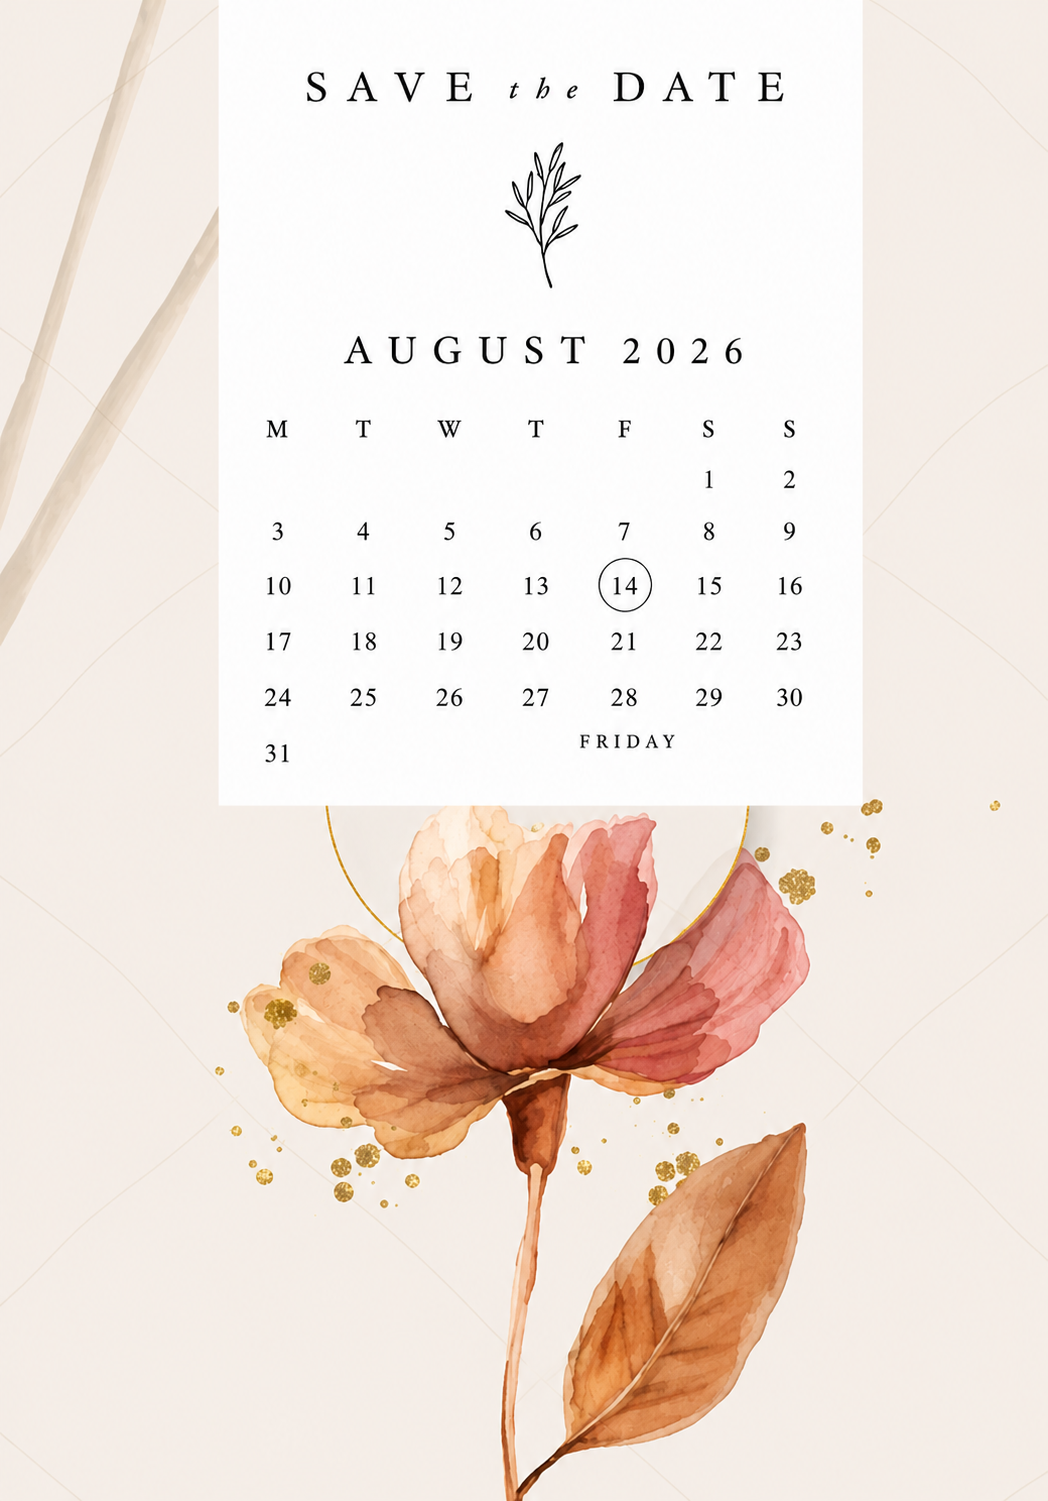
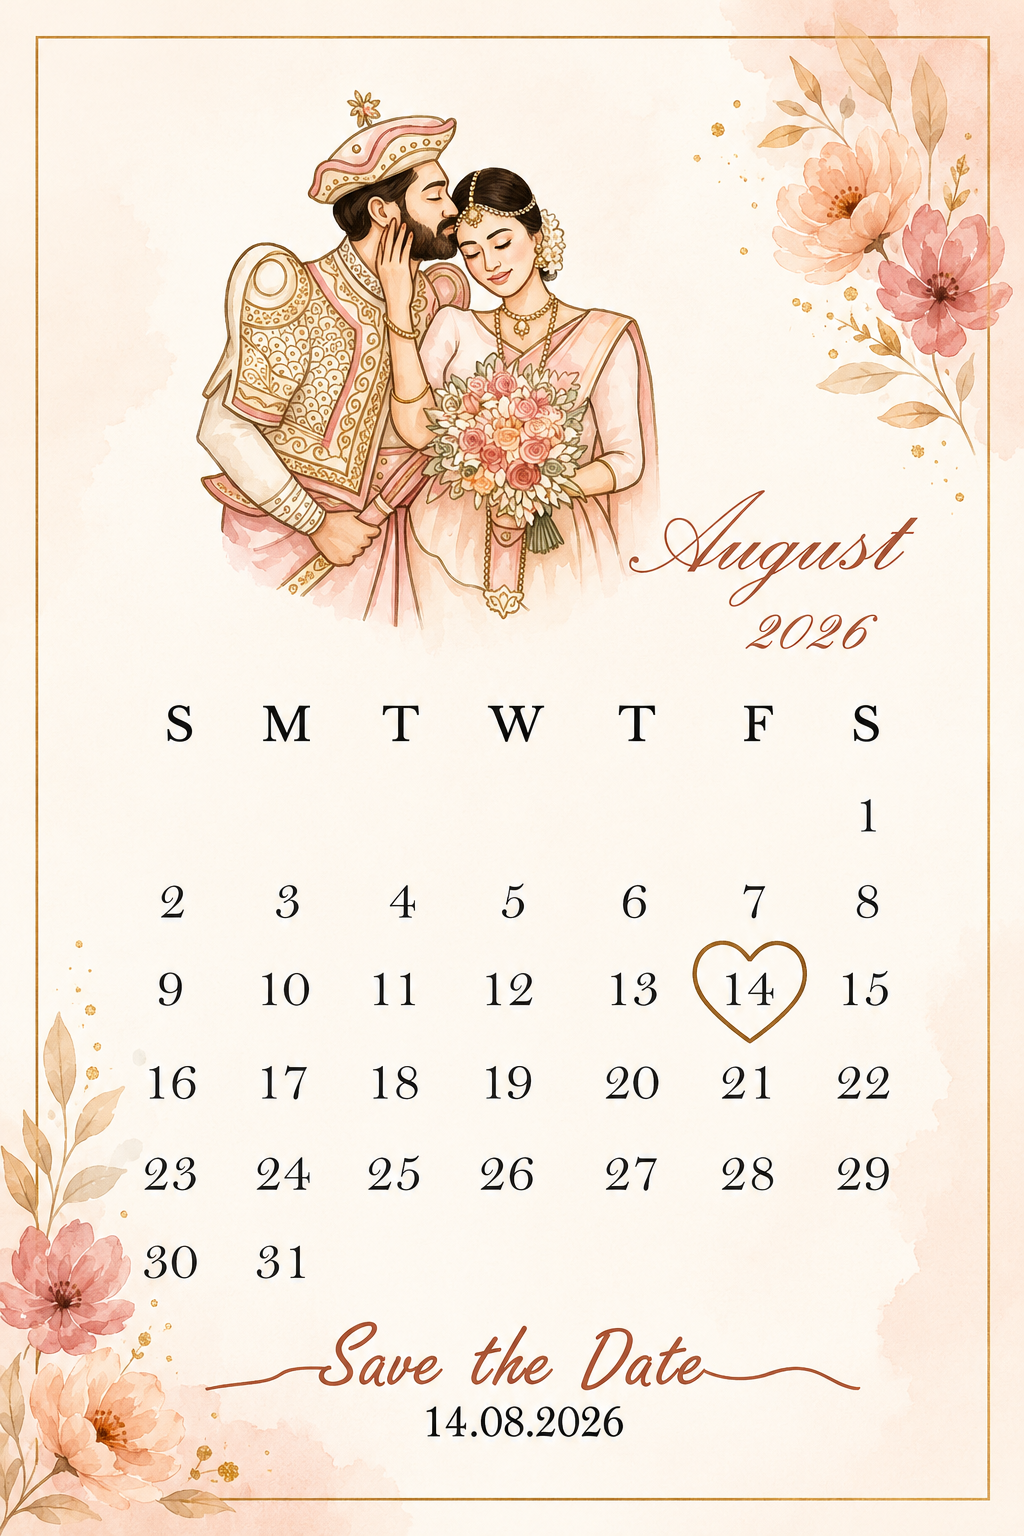
Add RSVP attendance field, close button, update couple names, update images

diff --git a/src/App.tsx b/src/App.tsx
@@ -26,6 +26,7 @@ export default function App() {
   const audioRef = useRef<HTMLAudioElement | null>(null);
 
   const weddingDate = new Date('2026-08-14T09:30:00');
+  const [isClosed, setIsClosed] = useState(false);
 
   const startMusic = () => {
     if (audioRef.current && !isMusicPlaying) {
@@ -44,6 +45,27 @@ export default function App() {
       setIsMusicPlaying(!isMusicPlaying);
     }
   };
+
+  if (isClosed) {
+    return (
+      <div className="relative min-h-screen bg-brand-ivory flex items-center justify-center p-6 text-center">
+        <FloatingPetals />
+        <div className="bg-white/60 backdrop-blur-md p-10 sm:p-20 rounded-[3rem] border border-brand-primary/20 shadow-2xl relative max-w-2xl">
+          <CornerFlowers position="all" opacity={0.6} scale={1.2} />
+          <h1 className="text-4xl sm:text-6xl font-display text-brand-dark mb-6 tracking-tight drop-shadow-sm">Thank You</h1>
+          <p className="font-serif italic text-lg sm:text-xl text-stone-600 mb-10 leading-relaxed">
+            For taking the time to view our invitation. We hope to see you on our special day!
+          </p>
+          <button 
+            onClick={() => setIsClosed(false)}
+            className="px-8 py-3 rounded-full border border-brand-primary/30 text-brand-primary font-sans text-xs tracking-[0.2em] uppercase hover:bg-brand-champagne transition-all duration-300 shadow-sm"
+          >
+            Open Again
+          </button>
+        </div>
+      </div>
+    );
+  }
 
   return (
     <div className="relative min-h-screen font-sans selection:bg-brand-gold selection:text-white overflow-x-hidden bg-brand-ivory">
@@ -76,11 +98,25 @@ export default function App() {
               {isMusicPlaying ? <Volume2 className="w-6 h-6" /> : <VolumeX className="w-6 h-6" />}
             </button>
 
+            {/* Close Invitation Button */}
+            <button
+              onClick={() => setIsClosed(true)}
+              className="fixed top-8 right-8 z-[60] bg-white/70 backdrop-blur-md px-6 py-2 rounded-full border border-brand-primary/30 text-brand-primary-deep font-sans text-[10px] sm:text-xs font-bold tracking-[0.2em] uppercase shadow-lg hover:bg-white hover:shadow-xl transition-all active:scale-95 flex items-center gap-2"
+            >
+              <div className="w-2 h-2 rounded-full bg-brand-pink/80" />
+              Close
+            </button>
+
 
 
             <HeroContent />
 
-            <WelcomeMessage />
+            <section id="couple" className="py-16 sm:py-32 bg-gradient-to-b from-brand-ivory via-brand-champagne to-[#F4F6F2] relative overflow-hidden">
+              <CornerFlowers position="top-right" opacity={0.6} scale={1.5} />
+              <CornerFlowers position="bottom-left" opacity={0.6} scale={1.5} />
+              <div className="absolute top-0 left-0 w-full h-full bg-[url('https://www.transparenttextures.com/patterns/cubes.png')] opacity-[0.03] pointer-events-none" />
+              <CoupleDetails />
+            </section>
             
             <SaveTheDate />
 
@@ -112,22 +148,9 @@ export default function App() {
               </div>
             </section>
 
-            <section id="couple" className="py-16 sm:py-32 bg-gradient-to-b from-brand-ivory via-brand-champagne to-[#F4F6F2] relative overflow-hidden">
-              <CornerFlowers position="top-right" opacity={0.6} scale={1.5} />
-              <CornerFlowers position="bottom-left" opacity={0.6} scale={1.5} />
-              <div className="absolute top-0 left-0 w-full h-full bg-[url('https://www.transparenttextures.com/patterns/cubes.png')] opacity-[0.03] pointer-events-none" />
-              <CoupleDetails />
-            </section>
-
-
-
             <section id="poruwa">
               <PoruwaEvent />
             </section>
-
-            {/* Timeline section removed entirely as requested */}
-
-
 
             <section id="addresses" className="py-16 sm:py-32 bg-gradient-to-b from-[#F4F6F2] via-brand-ivory to-brand-primary/10 relative">
               <AddressesSection />
@@ -138,6 +161,8 @@ export default function App() {
               <div className="absolute top-0 left-0 w-full h-full bg-[url('https://www.transparenttextures.com/patterns/natural-paper.png')] opacity-20 pointer-events-none" />
               <RSVPForm />
             </section>
+
+            <WelcomeMessage />
 
             <Footer />
           </motion.main>

diff --git a/src/components/RSVPForm.tsx b/src/components/RSVPForm.tsx
@@ -8,6 +8,7 @@ import { CheckCircle, Loader2, Heart, Sparkles } from 'lucide-react';
 export const RSVPForm: React.FC = () => {
   const [formData, setFormData] = useState({
     fullName: '',
+    isAttending: 'Yes, Joyfully Accept',
     guests: '1',
     dietaryNotes: '',
   });
@@ -23,6 +24,7 @@ export const RSVPForm: React.FC = () => {
     try {
       await submitToGoogleSheet('rsvp', {
         fullName: formData.fullName,
+        isAttending: formData.isAttending,
         guests: normalizedGuests,
         dietaryNotes: formData.dietaryNotes,
         submittedAt: new Date().toISOString(),
@@ -159,6 +161,20 @@ export const RSVPForm: React.FC = () => {
                         value={formData.fullName}
                         onChange={(e) => setFormData({ ...formData, fullName: e.target.value })}
                       />
+                    </div>
+
+                    <div>
+                      <label className="block text-[10px] uppercase tracking-[0.2em] font-bold text-brand-primary-deep mb-3 ml-2">Will you be attending?</label>
+                      <div className="relative group">
+                        <select
+                          className="w-full bg-white/90 px-6 py-4 rounded-full border border-brand-primary/20 focus:ring-2 focus:ring-brand-primary/40 focus:border-brand-primary-light outline-none transition-all duration-300 appearance-none font-serif italic text-lg shadow-sm text-brand-dark cursor-pointer"
+                          value={formData.isAttending}
+                          onChange={(e) => setFormData({ ...formData, isAttending: e.target.value })}
+                        >
+                          <option value="Yes, Joyfully Accept">Yes, Joyfully Accept</option>
+                          <option value="No, Regretfully Decline">No, Regretfully Decline</option>
+                        </select>
+                      </div>
                     </div>
 
                     <div>

diff --git a/src/components/CoupleDetails.tsx b/src/components/CoupleDetails.tsx
@@ -38,7 +38,7 @@ export const CoupleDetails: React.FC = () => {
           <div className="mb-4 flex flex-col items-center lg:items-end">
             <span className="text-brand-primary uppercase tracking-[0.4em] text-[10px] font-bold mb-3 block">The Groom</span>
             <h3 className="text-4xl sm:text-5xl font-display text-stone-800 mb-2 drop-shadow-sm">Ramesh</h3>
-            <p className="text-stone-500/90 font-serif italic text-base sm:text-lg">Son of Mr. Ghananarathna Dissanayake</p>
+            <p className="text-stone-500/90 font-serif italic text-base sm:text-lg">Son of Mr. & Mrs Dissanayake</p>
           </div>
           <div className="hidden lg:flex justify-end mt-8">
             <Heart className="w-6 h-6 text-brand-pink/80 fill-brand-pink/30 transform hover:scale-110 transition-transform cursor-pointer drop-shadow-sm" />
@@ -57,9 +57,9 @@ export const CoupleDetails: React.FC = () => {
           <div className="absolute -inset-2 bg-gradient-to-b from-brand-primary/30 to-transparent rounded-[12rem_12rem_1rem_1rem] blur-xl opacity-60 group-hover:opacity-100 transition-opacity duration-700 pointer-events-none" />
 
           <div className="relative w-[300px] h-[400px] sm:w-[360px] sm:h-[500px] lg:w-[420px] lg:h-[580px] rounded-[12rem_12rem_16px_16px] overflow-hidden border-[6px] border-white/90 shadow-[0_20px_50px_rgba(70,130,180,0.2)] bg-brand-champagne mx-auto z-10 transition-transform duration-700 group-hover:-translate-y-2 flex flex-col items-center justify-center gap-4">
-            <img 
-              src="/images/e.jpg" 
-              alt="Couple" 
+            <img
+              src="/images/a.jpg"
+              alt="Couple"
               className="w-full h-full object-cover transition-transform duration-700 group-hover:scale-110"
             />
             {/* Elegant inner shadow & overlay */}
@@ -88,7 +88,7 @@ export const CoupleDetails: React.FC = () => {
           <div className="mb-4 flex flex-col items-center lg:items-start">
             <span className="text-brand-primary uppercase tracking-[0.4em] text-[10px] font-bold mb-3 block">The Bride</span>
             <h3 className="text-4xl sm:text-5xl font-display text-stone-800 mb-2 drop-shadow-sm">Chathuni</h3>
-            <p className="text-stone-500/90 font-serif italic text-base sm:text-lg">Daughter of Mr. Upalakshithe Mallawaachchi</p>
+            <p className="text-stone-500/90 font-serif italic text-base sm:text-lg">Daughter of Mr. & Mrs Mallawaachchi</p>
           </div>
           <div className="hidden lg:flex justify-start mt-8">
             <Heart className="w-6 h-6 text-brand-pink/80 fill-brand-pink/30 transform hover:scale-110 transition-transform cursor-pointer drop-shadow-sm" />

diff --git a/src/components/WelcomeMessage.tsx b/src/components/WelcomeMessage.tsx
@@ -18,9 +18,6 @@ export const WelcomeMessage: React.FC = () => {
           transition={{ duration: 1.2, ease: "easeOut" }}
           className="bg-white/60 backdrop-blur-sm p-8 sm:p-16 rounded-3xl border border-brand-primary/20 shadow-2xl relative"
         >
-          <div className="absolute -top-6 left-1/2 -translate-x-1/2 bg-brand-ivory px-6 py-2 rounded-full border border-brand-primary/30 shadow-md">
-            <span className="text-brand-primary uppercase tracking-[0.3em] text-xs font-semibold">Welcome</span>
-          </div>
 
           <h2 className="text-3xl sm:text-5xl font-display text-brand-dark mb-10 mt-4 italic">
             To our family and friends,

diff --git a/src/components/Countdown.tsx b/src/components/Countdown.tsx
@@ -29,7 +29,7 @@ export const Countdown: React.FC<CountdownProps> = ({ targetDate }) => {
   }, [targetDate]);
 
   return (
-    <div className="flex flex-wrap justify-center gap-4 sm:gap-6 lg:gap-10 py-6">
+    <div className="grid grid-cols-2 gap-4 sm:gap-6 lg:gap-10 py-6 mx-auto justify-items-center w-full max-w-[fit-content]">
       {[
         { label: 'Days', value: timeLeft.days },
         { label: 'Hours', value: timeLeft.hours },

diff --git a/src/components/HeroContent.tsx b/src/components/HeroContent.tsx
@@ -10,7 +10,7 @@ export const HeroContent: React.FC = () => {
       {/* Background Image with Elegant Overlays */}
       <div className="absolute inset-0 z-0">
         <div 
-          className="absolute inset-0 bg-[url('/images/a.jpg')] bg-cover bg-center bg-no-repeat" 
+          className="absolute inset-0 bg-[url('/images/b.jpg')] bg-cover bg-center bg-no-repeat" 
         />
         <div className="absolute inset-0 bg-brand-ivory/60 backdrop-blur-[4px]" />
         <div className="absolute inset-0 bg-gradient-to-br from-brand-primary/10 via-transparent to-brand-primary/5 mix-blend-multiply" />

diff --git a/src/components/SaveTheDate.tsx b/src/components/SaveTheDate.tsx
@@ -11,7 +11,7 @@ export const SaveTheDate: React.FC = () => {
         <div className="w-full relative group">
           <div className="absolute -inset-2 bg-gradient-to-r from-brand-champagne/40 via-brand-primary/20 to-brand-champagne/40 rounded-[2.5rem] blur-xl opacity-50 transition-opacity duration-500 group-hover:opacity-100" />
           <img 
-            src="/save%20the%20date.png" 
+            src="/save%20the%20date.png?v=2" 
             alt="Save The Date" 
             className="relative w-full h-auto object-contain rounded-[2rem] sm:rounded-[3rem] shadow-[0_20px_50px_rgba(0,0,0,0.15)] border-[6px] sm:border-[10px] border-white transition-transform duration-700 ease-out group-hover:scale-[1.02]"
           />